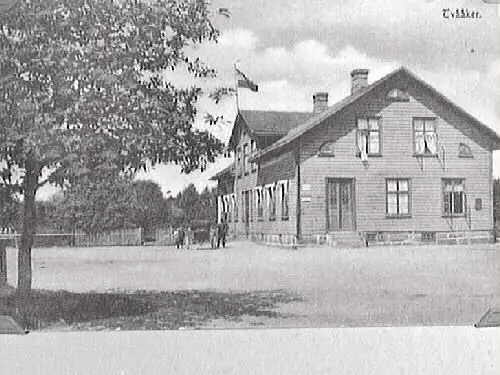
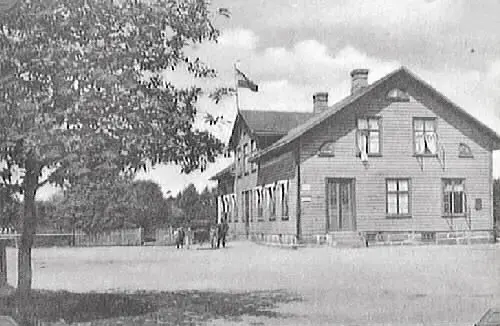
Släppte ut Sonjas Veranda

diff --git a/src/components/TopNav.vue b/src/components/TopNav.vue
@@ -66,6 +66,7 @@ const menuItems = computed(() => [
     label: t("visited_places"),
     children: [
       { label: t("dropdown.mapView"), to: "/map-view" },
+      { label: t("dropdown.pageSonjasVeranda"), to: "/sonjas-veranda" },
       { label: t("dropdown.pageJugendHouse"), to: "/jugend-house" },
       { label: t("dropdown.pageHuntersGrave"), to: "/hunters-grave" },
       { label: t("dropdown.pageRydalsHerrgard"), to: "/rydals-herrgard" },

diff --git a/src/components/CompletedTasks.vue b/src/components/CompletedTasks.vue
@@ -4,6 +4,11 @@ import { useI18n } from "vue-i18n";
 const { t } = useI18n();
 
 const items = [
+  { to: "/sonjas-veranda", 
+    src: "/images/sonjas_veranda/vykort.webp", 
+    alt: "Sonjas Veranda", 
+    label: "sonjasveranda" 
+  },
   { to: "/jugend-house", 
     src: "/images/jugend_house/klevs_gastgiveri.webp", 
     alt: "Klevs gästgiveri", 
